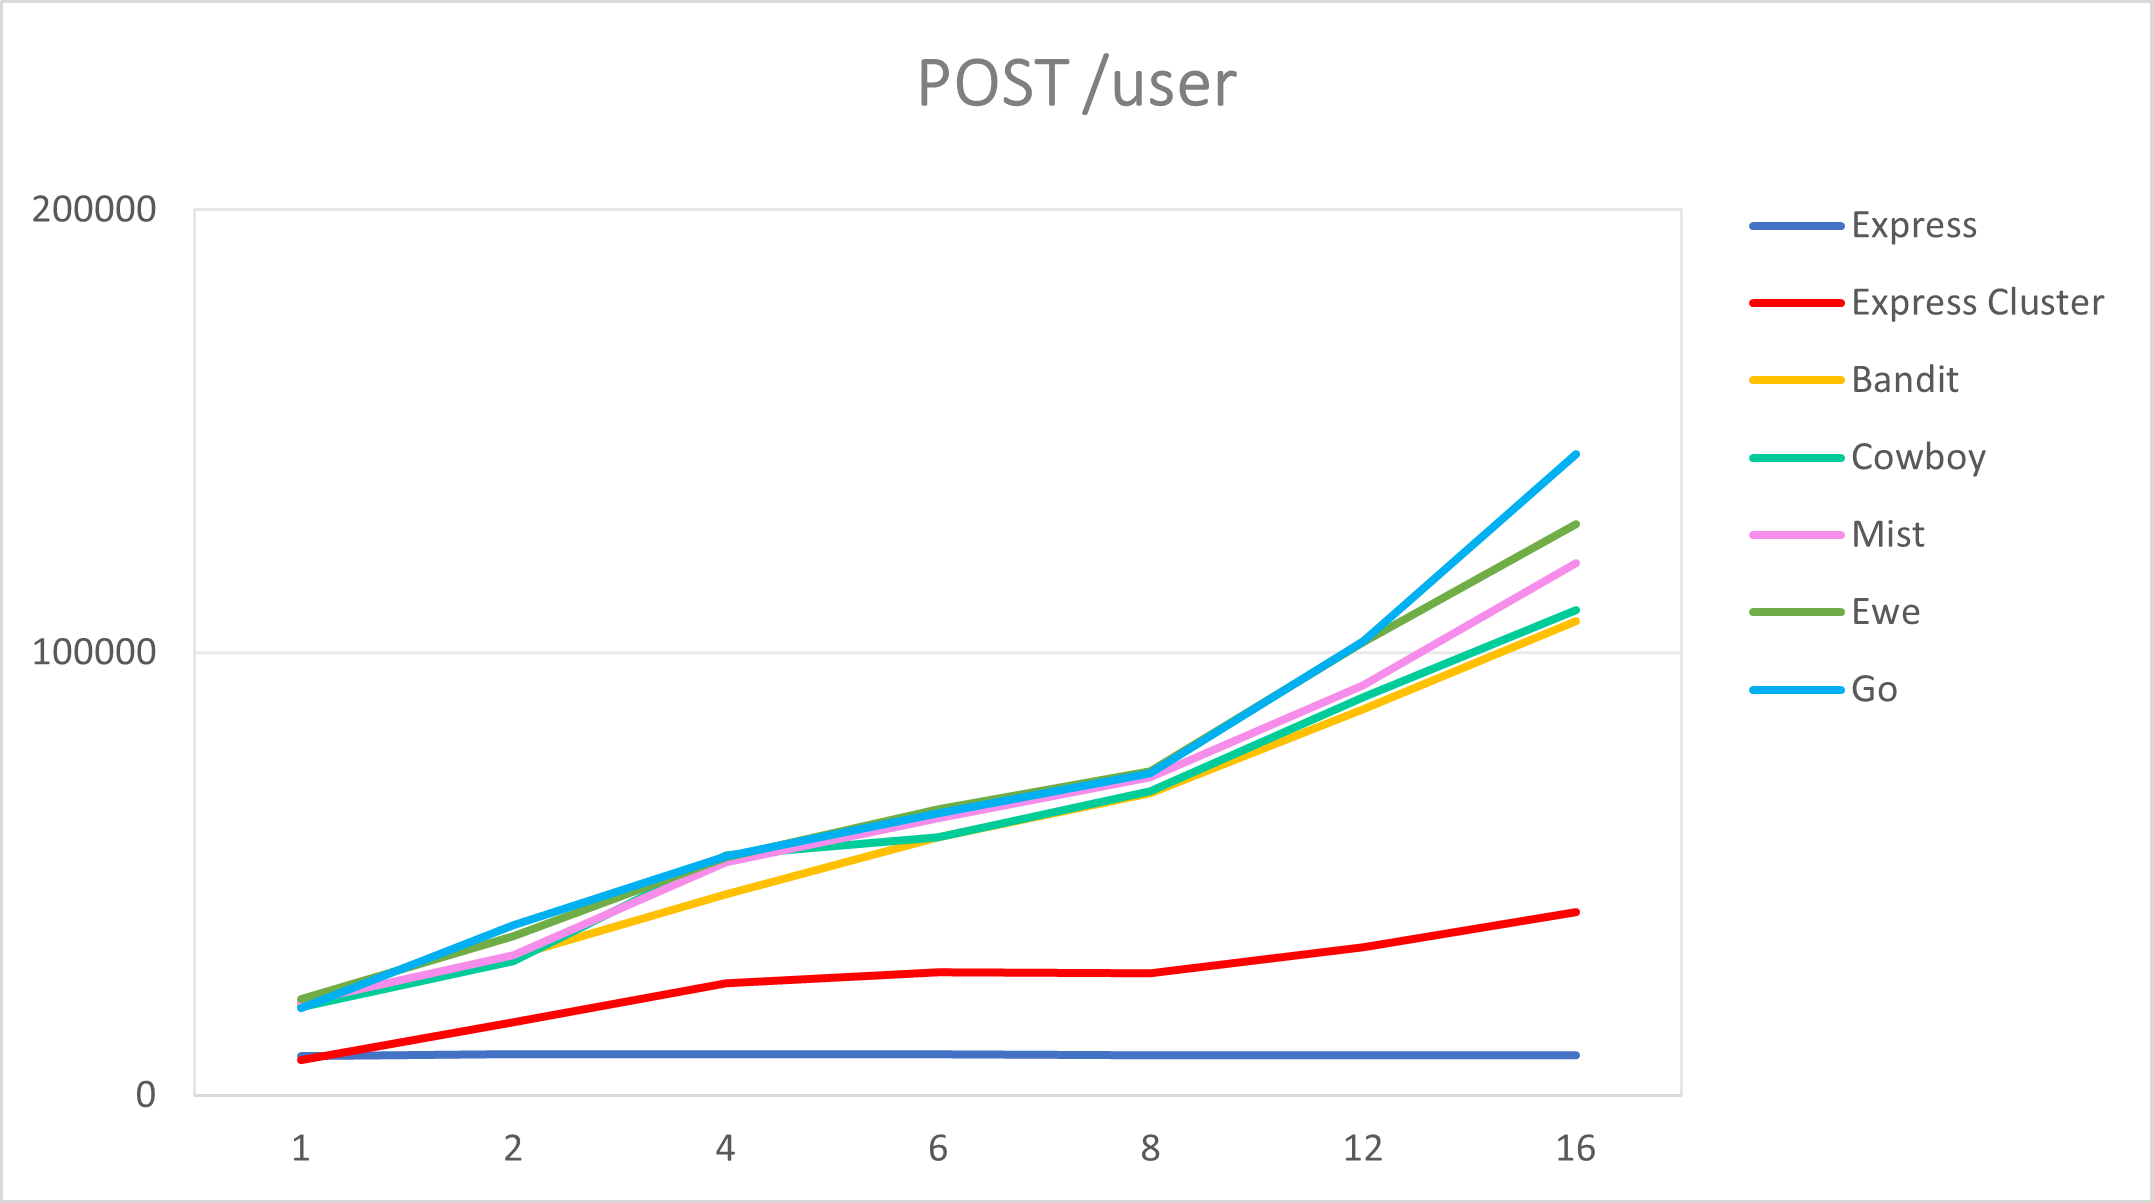
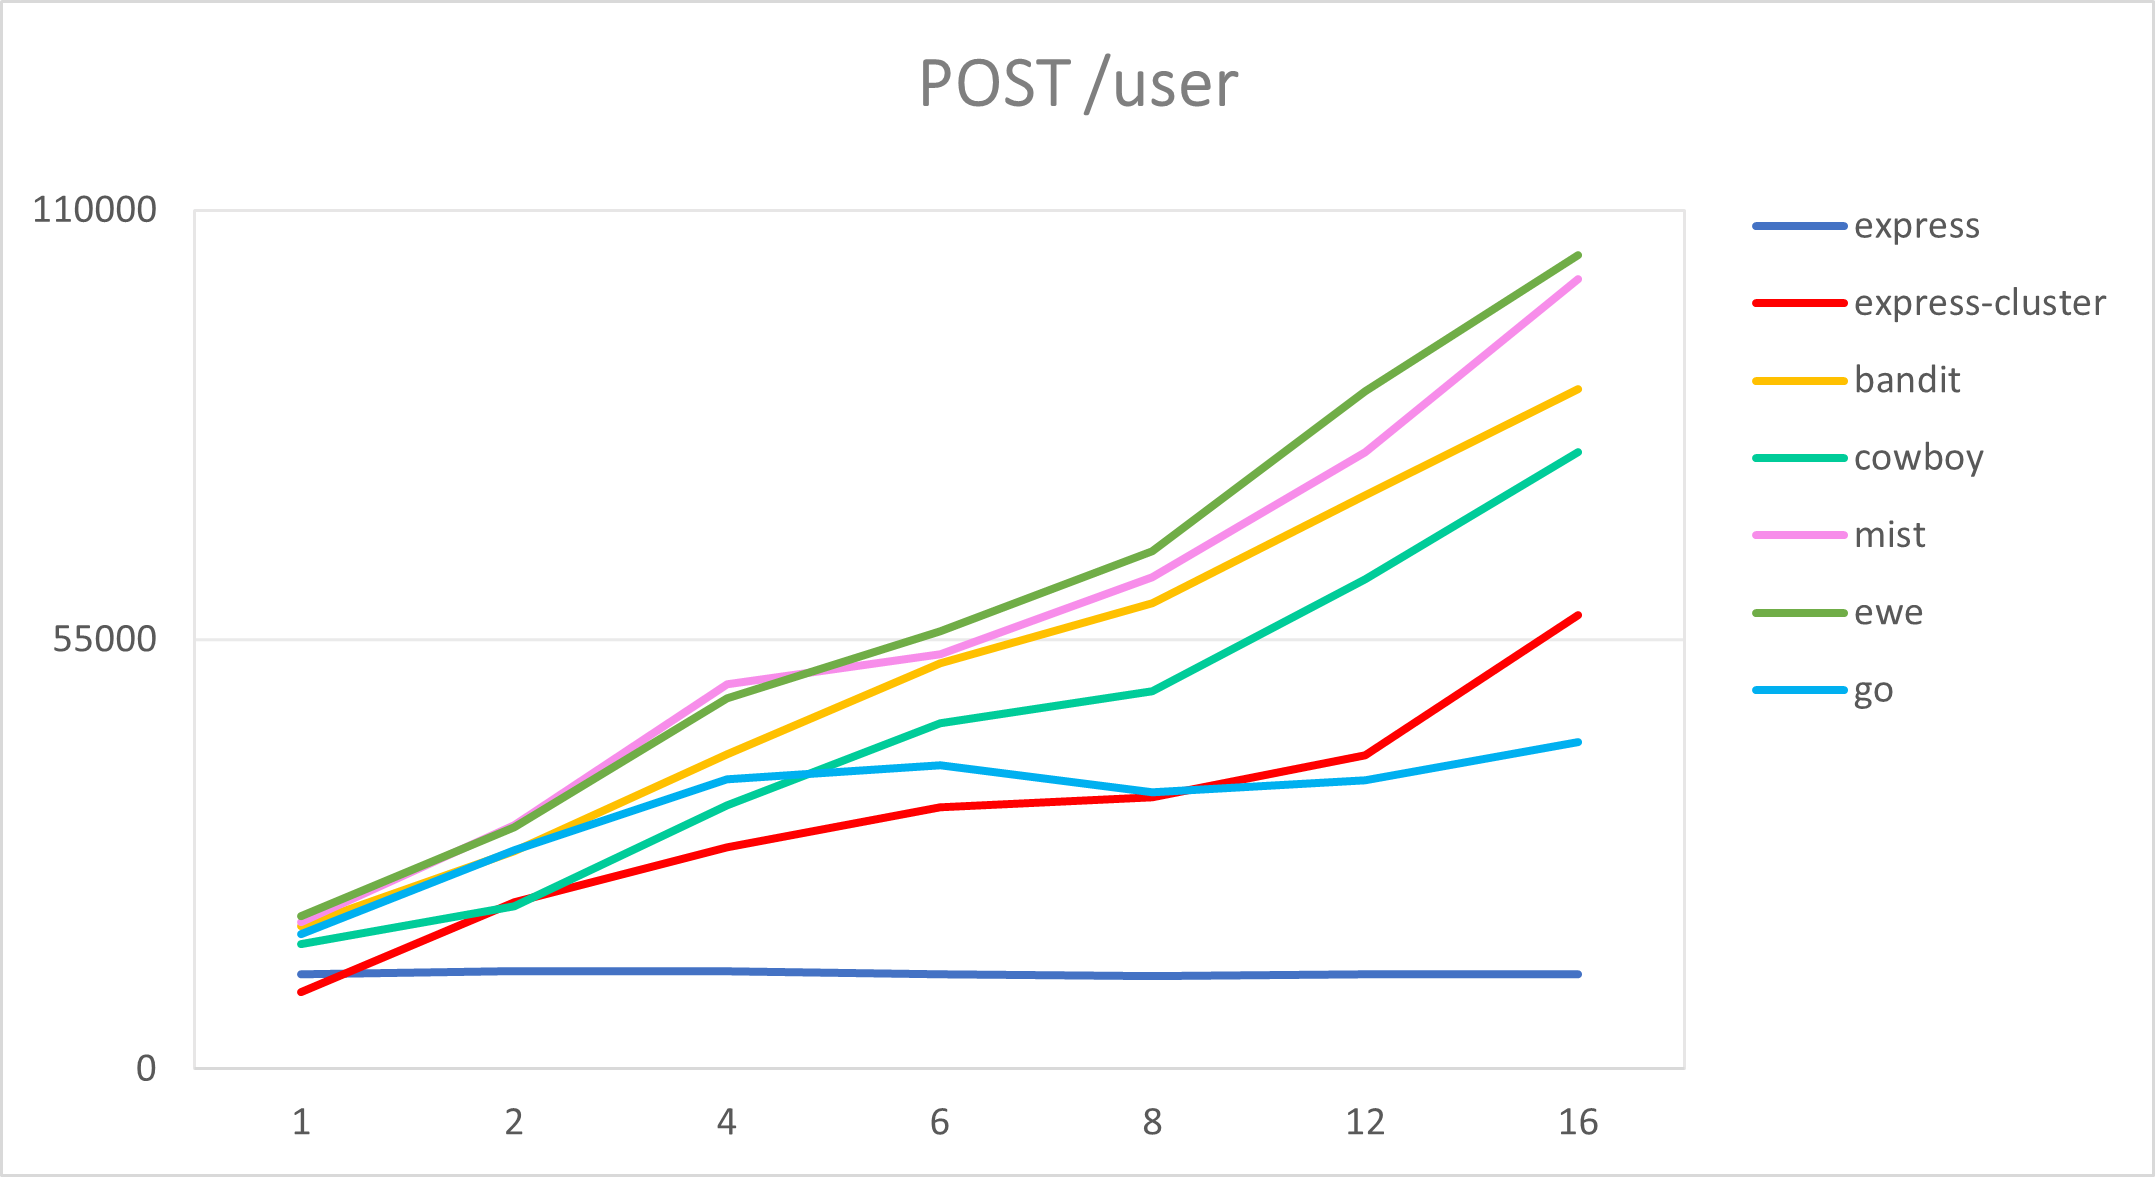
update numbers

diff --git a/README.md b/README.md
@@ -47,34 +47,38 @@ Each application was tested with [h2load](https://nghttp2.org/documentation/h2lo
 
 |Framework|Concurrency 1|2|4|6|8|12|16
 |---|---|---|---|---|---|---|---
-|Express|17184 req/s|16193.47 req/s|16971.07 req/s|16946.93 req/s|16815.9 req/s|16877.07 req/s|16913.47 req/s
-|Express Cluster|16612.93 req/s|31835.1 req/s|52126.37 req/s|65902.03 req/s|69222.5 req/s|78587.9 req/s|82738.83 req/s
-|Bandit|41622.87 req/s|50579.63 req/s|92149 req/s|116914.7 req/s|148518.73 req/s|180819.17 req/s|187722.13 req/s
-|Cowboy|33481.43 req/s|41912.3 req/s|70215.47 req/s|91740.57 req/s|100475.73 req/s|131264.6 req/s|154639.97 req/s
-|Mist|55268.87 req/s|72065.57 req/s|123361.47 req/s|167484.27 req/s|197281.13 req/s|220354.27 req/s|242388.17 req/s
-|Go|60466.37 req/s|108339.5 req/s|155894.77 req/s|185027.13 req/s|194863 req/s|226281 req/s|257714.13 req/s
+|express|10262.17req/s|10440.73req/s|10095.33req/s|10252.9req/s|10213.7req/s|10193.37req/s|10836.6req/s
+|express-cluster|9040.6req/s|18556.2req/s|26619.97req/s|29934.27req/s|34312.43req/s|39962.37req/s|54007.83req/s
+|bandit|21220.7req/s|31070.7req/s|46876.63req/s|60402.7req/s|74602.8req/s|95251.17req/s|114665.77req/s
+|cowboy|19878.9req/s|29939.4req/s|54095.3req/s|61516.9req/s|71267.57req/s|95876.23req/s|120338.03req/s
+|mist|21587.33req/s|34199.53req/s|52467.7req/s|63217.8req/s|75828.63req/s|96903req/s|122978.43req/s
+|ewe|22622.6req/s|37327req/s|62513.17req/s|68573.03req/s|84805.13req/s|111732.57req/s|146403.47req/s
+|go|20551.33req/s|38314.13req/s|55431.63req/s|66767.83req/s|80669.17req/s|108965.77req/s|161852.13req/s
+
 							
 #### `GET /user/:id`
 
 |Framework|Concurrency 1|2|4|6|8|12|16
 |---|---|---|---|---|---|---|---
-|Express|15690.17 req/s|15718.67 req/s|15633.17 req/s|15404.17 req/s|15534.03 req/s|15117.8 req/s|15197.07 req/s
-|Express Cluster|14059.97 req/s|26459.97 req/s|47776.2 req/s|53187.03 req/s|53674.5 req/s|60694.4 req/s|64454.93 req/s
-|Bandit|38236.63 req/s|47075.03 req/s|89549.5 req/s|116914.7 req/s|135168.3 req/s|148915.97 req/s|155122.33 req/s
-|Cowboy|29778.4 req/s|36562.7 req/s|66019.6 req/s|88782.07 req/s|102135.43 req/s|116457.77 req/s|129921.97 req/s
-|Mist|51840.1 req/s|89592.57 req/s|131851.4 req/s|157122.17 req/s|156627.9 req/s|181680.07 req/s|191441.47 req/s
-|Go|55842.4 req/s|93958.8 req/s|151009.3 req/s|177738.43 req/s|188326.63 req/s|220403.4 req/s|250316.67 req/s
+|express|8805.07 req/s|9267.17 req/s|9191.93 req/s|9179.43 req/s|9164.9 req/s|9144.8 req/s|9142.43 req/s
+|express-cluster|7951.67 req/s|16508.23 req/s|25358 req/s|27811.77 req/s|27519.47 req/s|33401.2 req/s|41366.3 req/s
+|bandit|20707.9 req/s|31308.63 req/s|45332.47 req/s|58307.2 req/s|68275.43 req/s|87301.57 req/s|107105.7 req/s
+|cowboy|19884.97 req/s|30350.73 req/s|54171.7 req/s|58189.17 req/s|68643.27 req/s|89929.47 req/s|109594.37 req/s
+|mist|20990.93 req/s|31741.47 req/s|52588.97 req/s|62640.33 req/s|71829.6 req/s|92688.7 req/s|120267.03 req/s
+|ewe|21631.1 req/s|35824.7 req/s|53838.03 req/s|64705.87 req/s|73291.7 req/s|102289.93 req/s|129006.33 req/s
+|go|19772.03 req/s|38465.93 req/s|54049.13 req/s|63641.73 req/s|72757.53 req/s|102563.73 req/s|144941.8 req/s
 							
 #### `POST /user`
 
 |Framework|Concurrency 1|2|4|6|8|12|16
 |---|---|---|---|---|---|---|---
-|Express|21904.07 req/s|21728.5 req/s|21406.9 req/s|21289.97 req/s|20960.03 req/s|21088.23 req/s|21557.93 req/s
-|Express Cluster|18093.77 req/s|33629.87 req/s|53670.23 req/s|62223.87 req/s|66794 req/s|72450.97 req/s|75638.7 req/s
-|Bandit|33234.4 req/s|39841.9 req/s|66952.2 req/s|85157.2 req/s|104610.17 req/s|124608.17 req/s|126364.5 req/s
-|Cowboy|14431.3 req/s|18652.87 req/s|26055 req/s|31390.5 req/s|35715.57 req/s|43732.97 req/s|49530.67 req/s
-|Mist|41025.9 req/s|65517.67 req/s|89817.23 req/s|109170.87 req/s|122290.8 req/s|140194.8 req/s|152122.57 req/s
-|Go|31869 req/s|53810.17 req/s|83249.23 req/s|98007.67 req/s|98963.8 req/s|101635.4 req/s|109319.5 req/s
+|express|12137.33 req/s|12576.37 req/s|12482.7 req/s|12208.4 req/s|11937.6 req/s|12137.07 req/s|12110.27 req/s
+|express-cluster|9921.73 req/s|21332.43 req/s|28348.9 req/s|33581.93 req/s|34791.87 req/s|40195.43 req/s|58178.47 req/s
+|bandit|18304.07 req/s|27906.5 req/s|40354.37 req/s|51985.77 req/s|59610.87 req/s|73520.97 req/s|87108.8 req/s
+|cowboy|15957 req/s|20892.23 req/s|33816.87 req/s|44301.57 req/s|48355.63 req/s|62793.3 req/s|79075.3 req/s
+|mist|18761.67 req/s|31251.33 req/s|49224.63 req/s|53077.8 req/s|63018.83 req/s|79021.6 req/s|101143.3 req/s
+|ewe|19562.13 req/s|30995.63 req/s|47461.1 req/s|56096.17 req/s|66331.93 req/s|86865.23 req/s|104207.17 req/s
+|go|17343.33 req/s|28013.37 req/s|37128.53 req/s|38905.5 req/s|35441.17 req/s|37029.2 req/s|41938.3 req/s
 
 ![GET /](/results/GET%20_.png)
 
